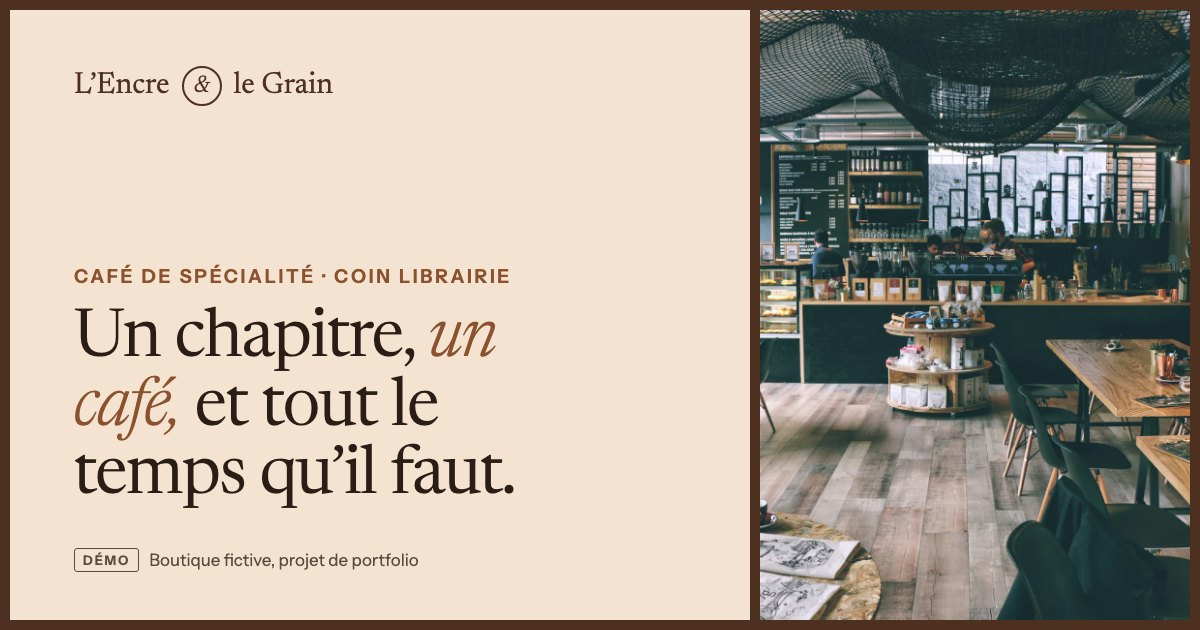
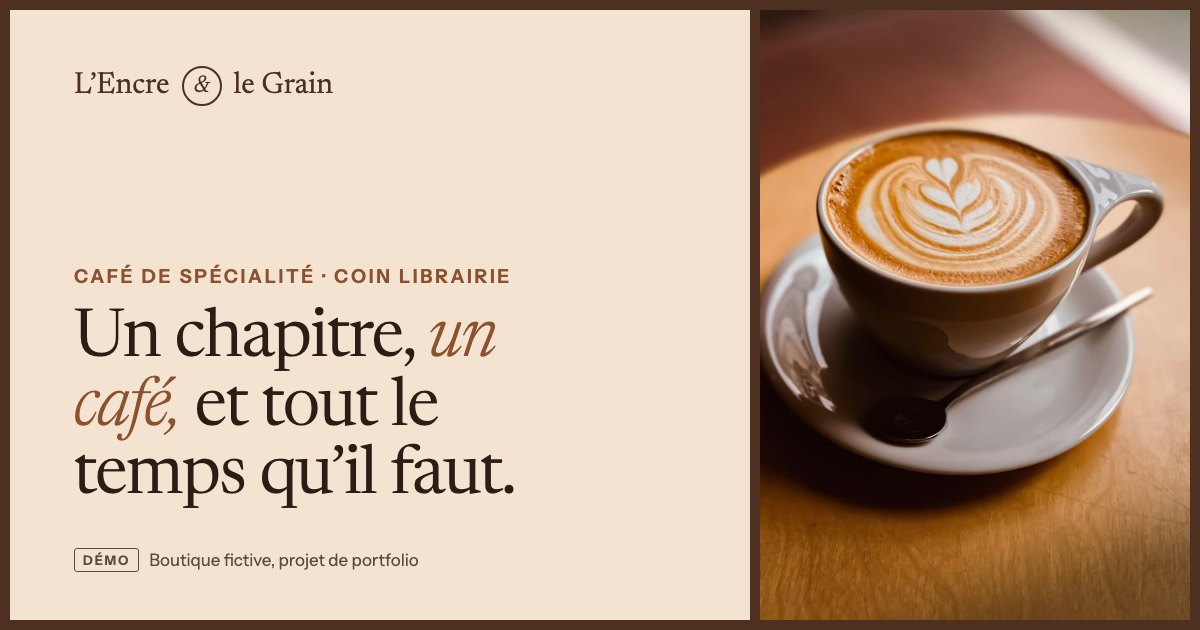
Hero : photo de latte art, plus épurée
- Nouvelle photo du hero (latte art, Unsplash), créditée sur la page Crédits
- Format 3:2 d'origine et tailles adaptées à la hauteur en portrait
  (photo nette sur téléphone et tablette)
- Encadré « Au filtre » masqué sur téléphone pour laisser voir la tasse
- Image de partage de l'accueil refaite avec la nouvelle photo

diff --git a/src/components/home/HeroSection.vue b/src/components/home/HeroSection.vue
@@ -31,9 +31,9 @@ const facts = [
     <div class="hero__banner">
       <ResponsiveImage
         class="hero__image"
-        :photo="photos.heroCafeInterior"
-        :ratio="16 / 9"
-        sizes="100vw"
+        :photo="photos.heroLatte"
+        :ratio="3 / 2"
+        sizes="(max-aspect-ratio: 3/2) 150vh, 100vw"
         :widths="[640, 768, 960, 1440, 1920, 2560]"
         priority
       />
@@ -124,7 +124,7 @@ const facts = [
   height: 100%;
   aspect-ratio: auto !important;
   object-fit: cover;
-  object-position: 60% 50%;
+  object-position: 72% 50%;
 }
 
 .hero__inner {
@@ -192,10 +192,13 @@ const facts = [
   letter-spacing: 0.05em;
 }
 
-/* Mobile : l'encadré « Au filtre » passe en haut à droite, sur la photo */
+/*
+ * Encadré « Au filtre » : masqué sur téléphone pour laisser voir la tasse
+ * au-dessus de l'encart ; en haut à droite de la photo sur tablette.
+ */
 .hero__note {
   order: -1;
-  display: grid;
+  display: none;
   gap: var(--space-1);
   justify-self: end;
   max-width: 13rem;
@@ -315,6 +318,10 @@ const facts = [
 
   .hero__text :deep(.stamp) {
     display: inline-flex;
+  }
+
+  .hero__note {
+    display: grid;
   }
 
   .hero__facts {

diff --git a/src/data/images.ts b/src/data/images.ts
@@ -15,11 +15,22 @@ export interface Photo {
 }
 
 export const photos = {
+  heroLatte: {
+    id: '1760175445000-0e01e193d1cd',
+    alt: 'Une tasse de café au latte art en forme de feuille, sur sa soucoupe avec une cuillère, posée sur une table ronde en bois clair.',
+    color: '#3b2419',
+    usage: 'Accueil, grande image d’ouverture',
+    credit: {
+      author: 'nameless 3791',
+      authorUrl: 'https://unsplash.com/@unidentifieduser',
+      photoUrl: 'https://unsplash.com/photos/une-tasse-de-cafe-avec-du-latte-art-sur-une-soucoupe-5nYLHK68TLM',
+    },
+  },
   heroCafeInterior: {
     id: '1521017432531-fbd92d768814',
     alt: 'Salle de café lumineuse aux tables en bois, avec un comptoir, des étagères garnies et des revues posées sur une table.',
     color: '#8c8478',
-    usage: 'Accueil, grande image d’ouverture',
+    usage: 'Image de partage de la page Contact',
     credit: {
       author: 'Petr Sevcovic',
       authorUrl: 'https://unsplash.com/@sevcovic23',
